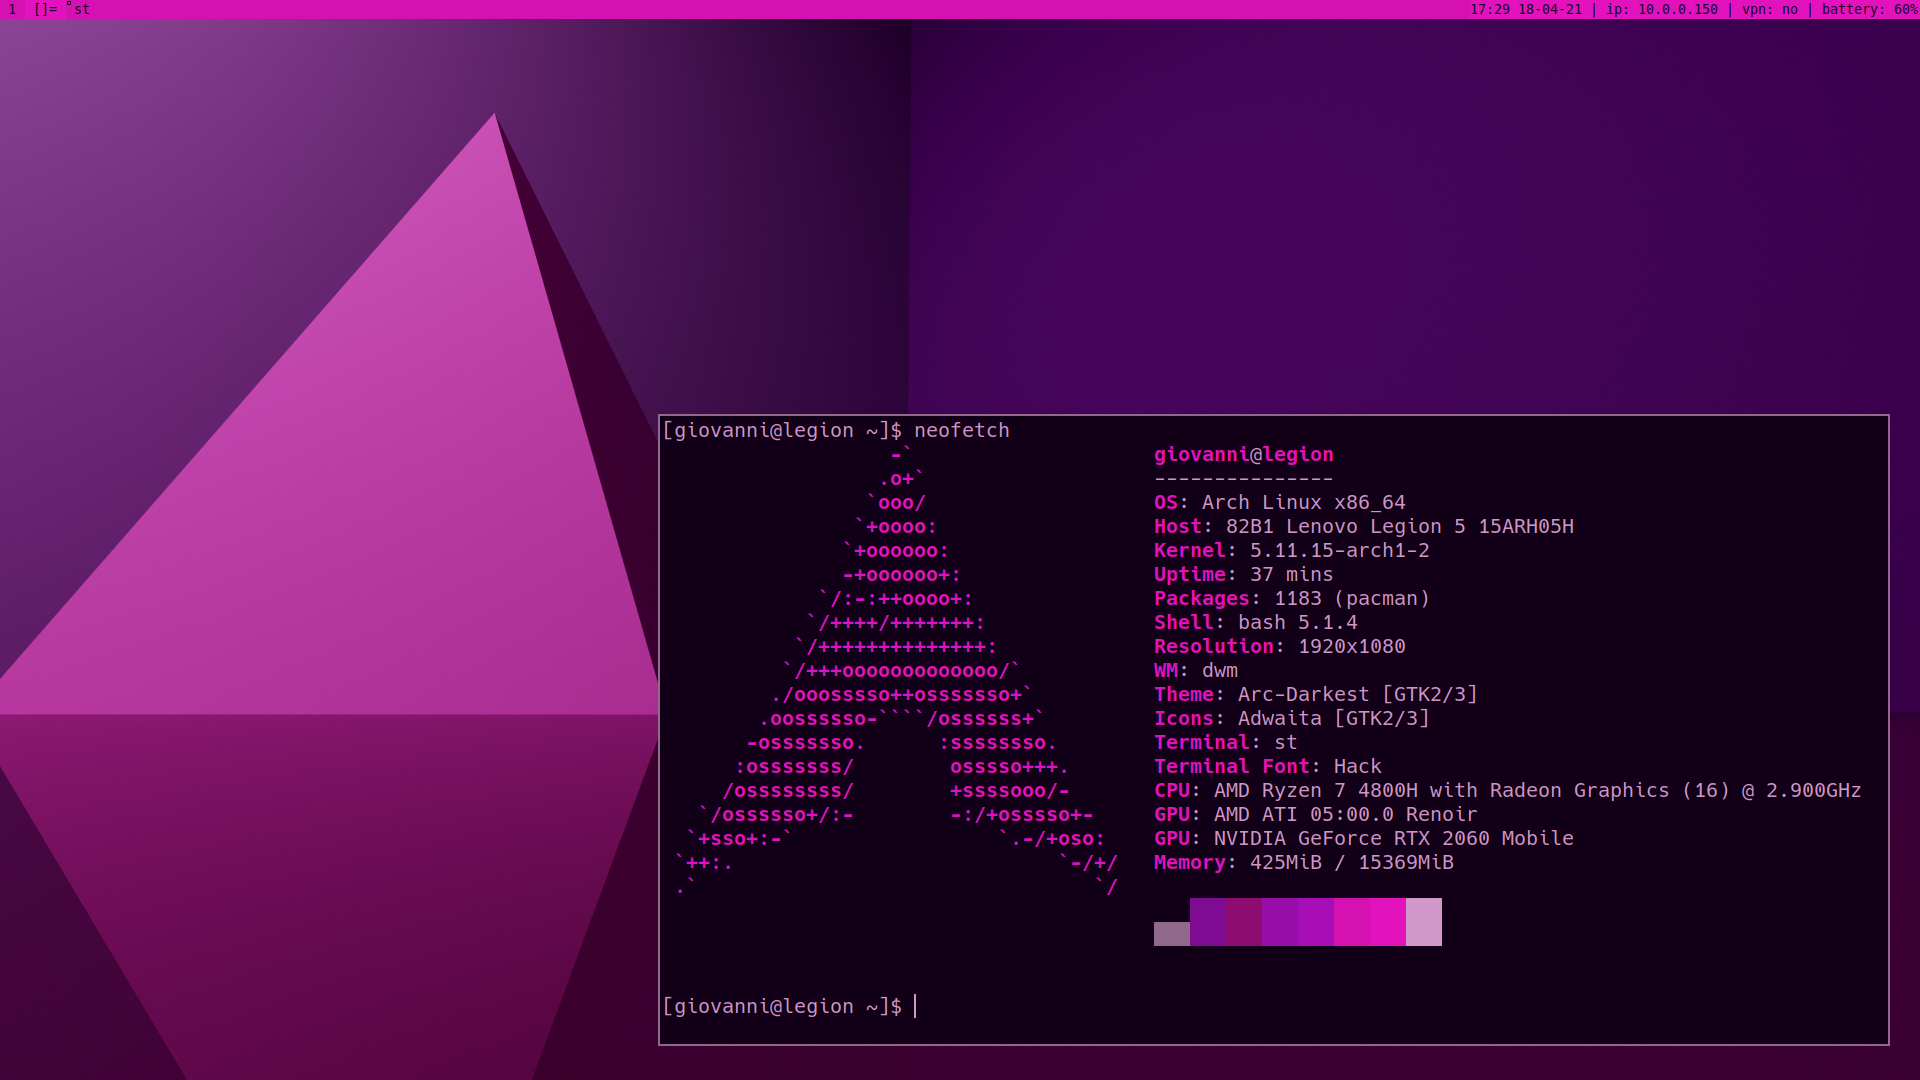
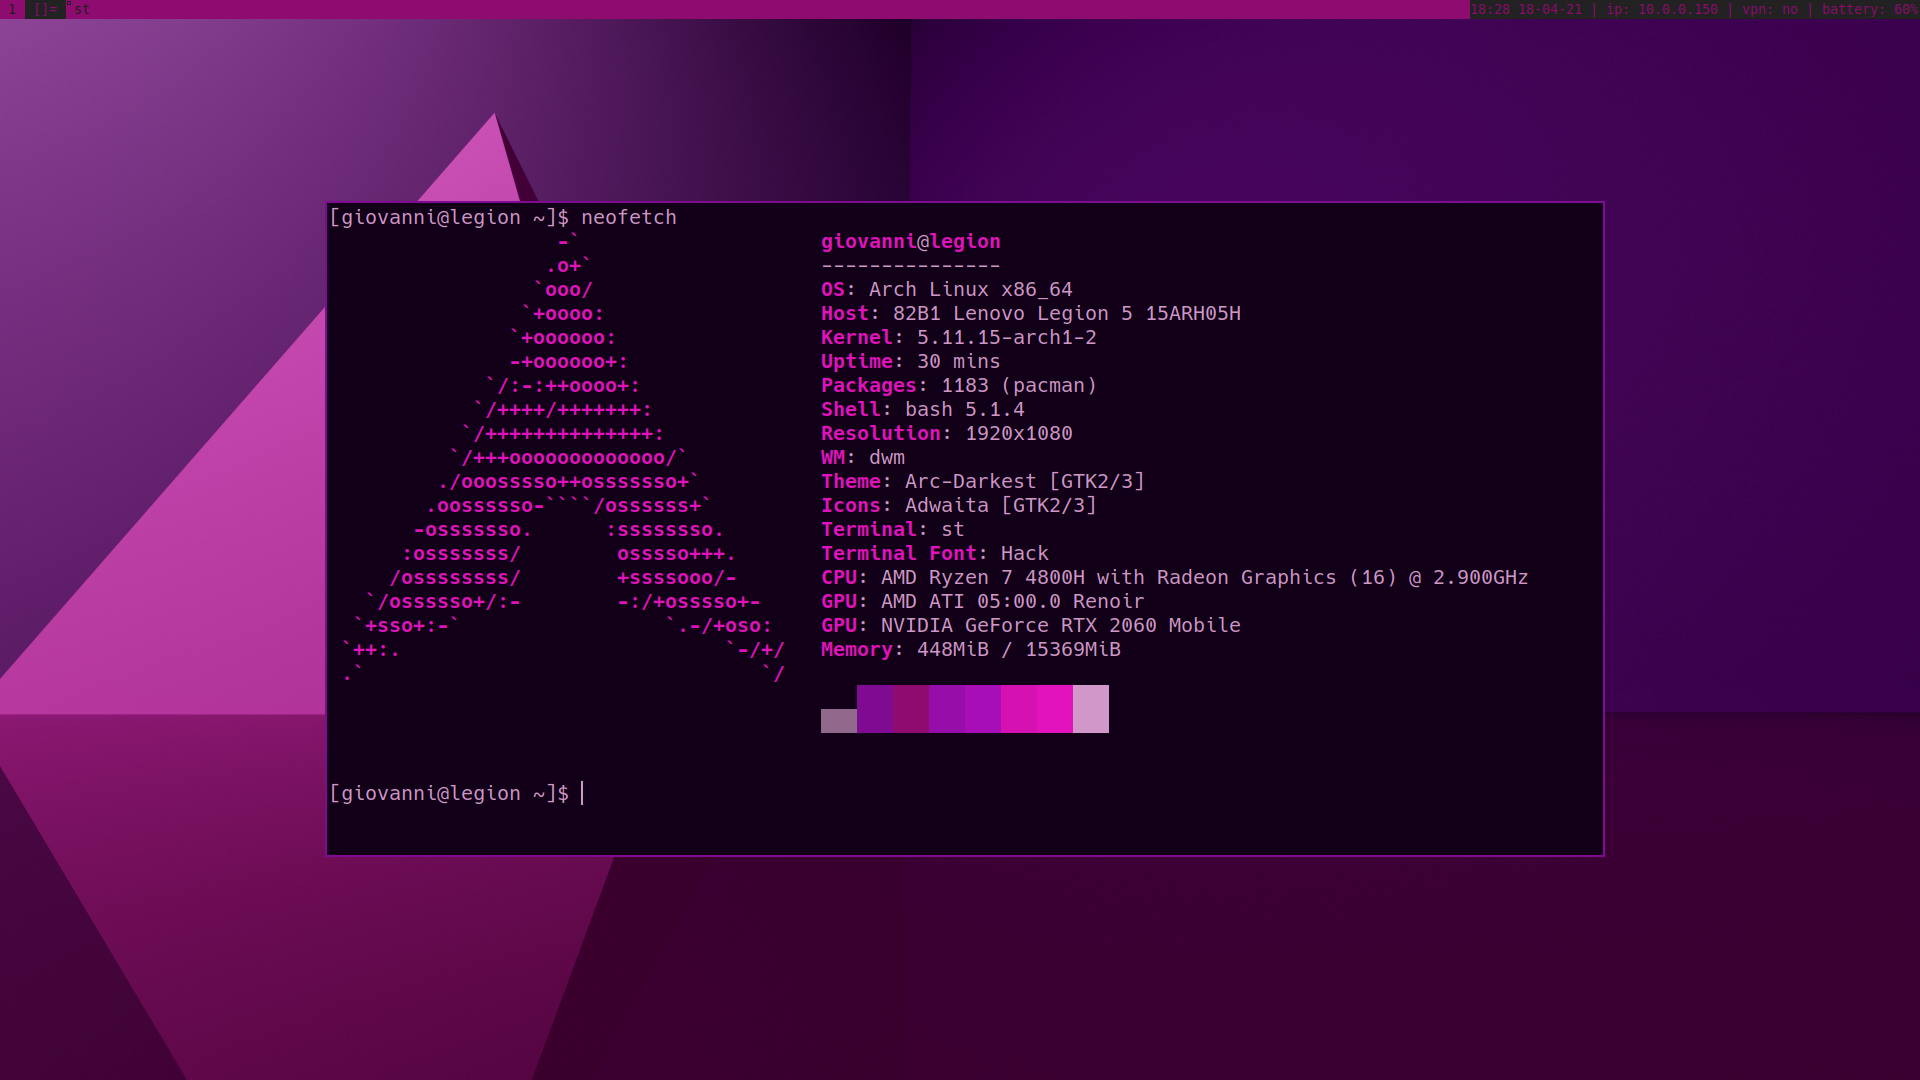
remove bloated pywal

diff --git a/dwm/config.h b/dwm/config.h
@@ -18,8 +18,8 @@ static int topbar             = 1;        /* 0 means bottom bar */
 static char *fonts[]          = { "monospace:size=10", "JoyPixels:pixelsize=10:antialias=true:autohint=true"  };
 static char normbgcolor[]           = "#222222";
 static char normbordercolor[]       = "#444444";
-static char normfgcolor[]           = "#222222";
-static char selfgcolor[]            = "#222222";
+static char normfgcolor[]           = "#1e1e1e";
+static char selfgcolor[]            = "#1e1e1e";
 static char selbordercolor[]        = "#82007e";
 static char selbgcolor[]            = "#9e007c";
 static char *colors[][3] = {
@@ -106,14 +106,14 @@ static const char *termcmd[]  = { TERMINAL, NULL };
  * Xresources preferences to load at startup
  */
 ResourcePref resources[] = {
-		{ "color1",		STRING,	&normbordercolor },
-		{ "color8",		STRING,	&selbordercolor },
+		{ "color8",		STRING,	&normbordercolor },
+		{ "color1",		STRING,	&selbordercolor },
 
-		{ "color6",		STRING,	&normbgcolor },
-		{ "color0",		STRING,	&normfgcolor },
+		// { "color5",		STRING,	&normbgcolor },
+		{ "color2",		STRING,	&normfgcolor },
 
-		{ "color0",		STRING,	&selfgcolor },
-		{ "color5",		STRING,	&selbgcolor },
+		// { "color3",		STRING,	&selfgcolor },
+		{ "color2",		STRING,	&selbgcolor },
 
 		{ "borderpx",		INTEGER, &borderpx },
 		{ "snap",		INTEGER, &snap },
@@ -187,7 +187,7 @@ static Key keys[] = {
 	{ MODKEY|ShiftMask,		XK_a,		defaultgaps,	{0} },
 	{ MODKEY,			XK_s,		togglesticky,	{0} },
 	/* { MODKEY|ShiftMask,		XK_s,		spawn,		SHCMD("") }, */
-	{ MODKEY,			XK_d,		spawn,          SHCMD("dmenu_run") },
+	{ MODKEY,			XK_d,		spawn,          SHCMD("dmenu_run -nb '#1e1e1e' -sf '#1e1e1e' -sb '#8e0b70' -nf '#8e0b70' ") },
 	// { MODKEY|ShiftMask,		XK_d,		spawn,		SHCMD("passmenu") },
 	{ MODKEY,			XK_f,		togglefullscr,	{0} },
 	{ MODKEY|ShiftMask,		XK_f,		setlayout,	{.v = &layouts[8]} },
